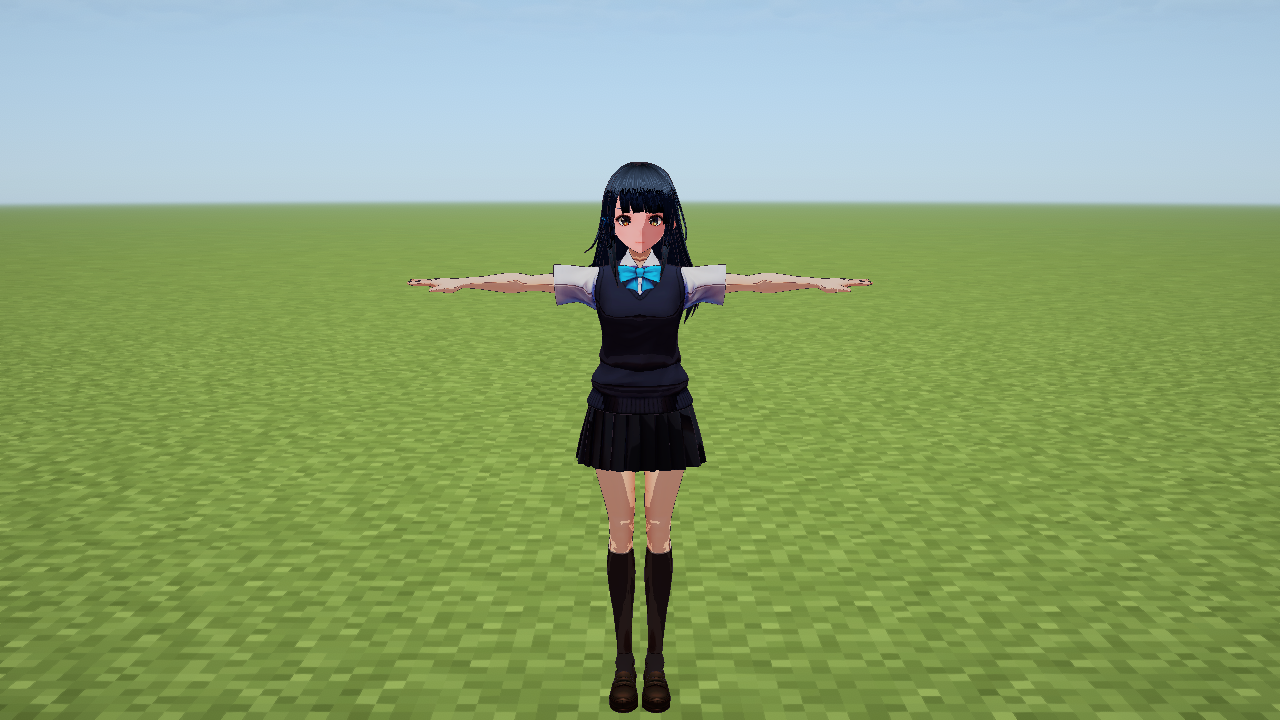
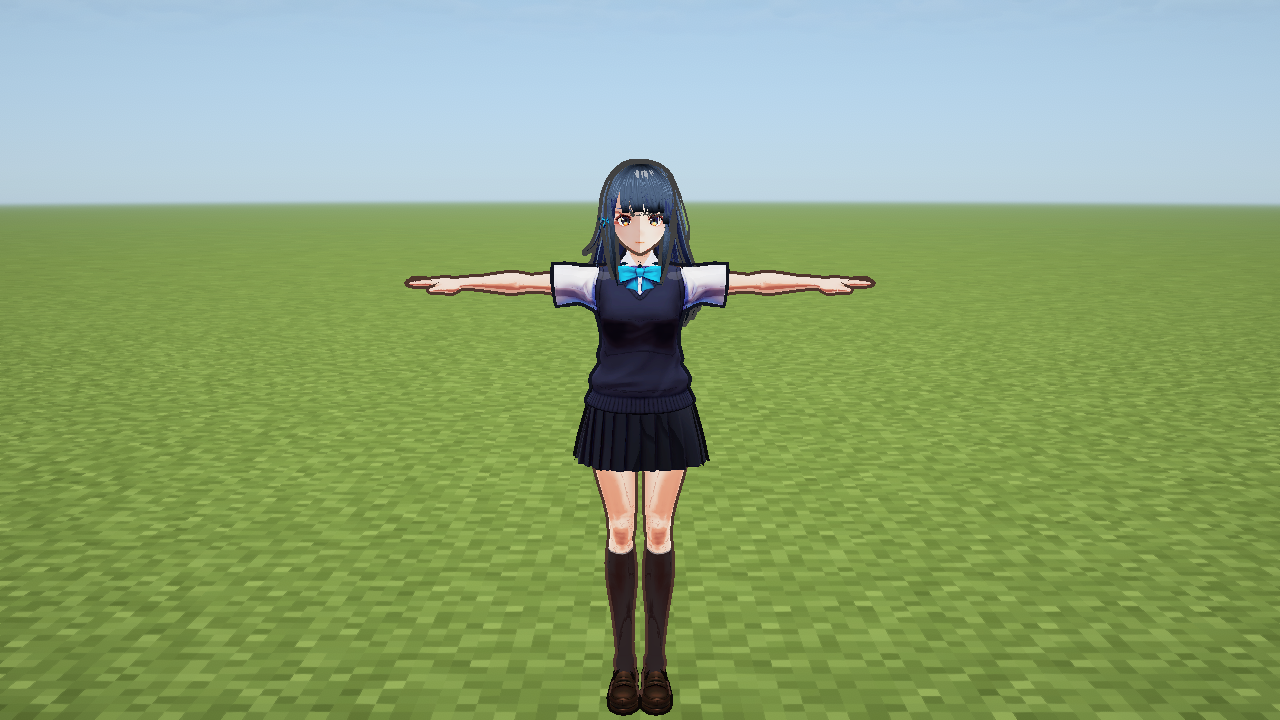
docs: refresh CC0 example still and pin MCglTF 2.3.2.8 for CI
JitPack's 2.3.2.7 tag predates ToonAssetGenerator, so CI could not compile
Generate Toon assets. Point at the new release and ship the Unbound Sendagaya
screenshot plus README/CHANGELOG notes for the in-mod derivation path.

Changed region(s): [[0.3125, 0.2139, 0.6875, 1.0]]

diff --git a/README.md b/README.md
@@ -4,13 +4,13 @@ Load local VRM 0.x/1.0 models in Minecraft 26.2 Fabric with MCglTF, and optional
 
 ![Celerant ToonShader example with Sendagaya Shino](docs/images/example-sendagaya-shino.png)
 
-The example model is VRoid Project **Sendagaya Shino** ([CC0 1.0](https://creativecommons.org/publicdomain/zero/1.0/), [terms of use](https://vroid.pixiv.help/hc/en-us/articles/4402614652569-Do-VRoid-Studio-s-sample-models-come-with-conditions-of-use) / [OpenGameArt mirror](https://opengameart.org/content/vroid-studio-cc0-models)). The still above was captured with Celerant + MCglTF ToonShader under an active Complementary Unbound Iris ShaderPack, using the generated LightMap / face-SDF / ramp sidecar in [`docs/examples/sendagaya-shino/`](docs/examples/sendagaya-shino/). The `.vrm` itself is not vendored; regenerate maps with `generate_toon_assets.py` after download, which is a thin wrapper over [`scripts/vrm_toon_assets.py`](scripts/vrm_toon_assets.py) and derives the same data for any VRM. Visual target: official [`UnityGenshinToonShader`](https://github.com/kaze-mio/UnityGenshinToonShader) `Images/image_0.png` (soft cheek SDF, warm lit albedo, thin outlines, bounded rim).
+The example model is VRoid Project **Sendagaya Shino** ([CC0 1.0](https://creativecommons.org/publicdomain/zero/1.0/), [terms of use](https://vroid.pixiv.help/hc/en-us/articles/4402614652569-Do-VRoid-Studio-s-sample-models-come-with-conditions-of-use) / [OpenGameArt mirror](https://opengameart.org/content/vroid-studio-cc0-models)). The still above was captured 2026-08-25 with Celerant + MCglTF ToonShader 2.3.2.8 under an active Complementary Unbound Iris ShaderPack, using the generated LightMap / face-SDF / ramp sidecar in [`docs/examples/sendagaya-shino/`](docs/examples/sendagaya-shino/). Only CC0 models appear in committed README images; the `.vrm` itself is not vendored. Regenerate maps with `generate_toon_assets.py` after download, which is a thin wrapper over [`scripts/vrm_toon_assets.py`](scripts/vrm_toon_assets.py) and derives the same data for any VRM. Visual target: official [`UnityGenshinToonShader`](https://github.com/kaze-mio/UnityGenshinToonShader) `Images/image_0.png` (soft cheek SDF, warm lit albedo, thin outlines, bounded rim).
 
 ## Required mods
 
 - Fabric Loader 0.19.3+
 - Fabric API 0.156.0+26.2
-- [MCglTF 26.2-Fabric-2.3.2.7](https://github.com/westernbear/MCglTF-1.20.4/releases/tag/v26.2-Fabric-2.3.2.7)
+- [MCglTF 26.2-Fabric-2.3.2.8](https://github.com/westernbear/MCglTF-1.20.4/releases/tag/v26.2-Fabric-2.3.2.8)
 - Iris 1.11.2+ and the Sodium 0.9.x build Iris requires
 - [OneConfig 1.1.6 for Fabric 26.2](https://modrinth.com/mod/oneconfig/version/UCFu181L) plus the Compose Multiplatform and Fabric Language Kotlin builds OneConfig requires
 
@@ -94,7 +94,13 @@ CELERANT_VISUAL_VRM=/absolute/path/model.vrm \
 xvfb-run -a -s "-screen 0 1280x720x24" ./gradlew runClientGameTest --offline
 ```
 
-As of 2026-08-13 on Iris 1.11.2 / MCglTF 2.3.2.6, the current Modrinth 26.2-compatible BSL R10.1.3, Complementary Reimagined r5.8.1, and Complementary Unbound r5.8.1 packs were inspected directly with the Jingburger VRM and each pack active. Height-matched comparisons against the official `UnityGenshinToonShader` images, ON/OFF/restored frames, opposed face lighting, and native plus 4× nearest-neighbour crops all passed the face SDF, material ramp, smooth normal, outline, rim/specular, and compositing gates. All three packs kept source SHA-256 intact, `patched_entity_programs=0/9`, and restored pixel stability `1.000`. llvmpipe 1280×720 ON/OFF median frame times were BSL 902/751 ms, Reimagined 756/633 ms, and Unbound 807/670 ms. Those are software-renderer numbers, not real-GPU performance.
+As of 2026-08-25 on Iris 1.11.2 / MCglTF 2.3.2.8, the current Modrinth 26.2-compatible BSL R10.1.3, Complementary Reimagined r5.8.1, and Complementary Unbound r5.8.1 packs were inspected directly with a local validation VRM and each pack active. Height-matched comparisons against the official `UnityGenshinToonShader` images, ON/OFF/restored frames, opposed face lighting, and native plus 4× nearest-neighbour crops all passed the face SDF, material ramp, smooth normal, outline, rim/specular, and compositing gates after the Unity-aligned outline path and geometry-based blush/eye placement landed. All three packs kept source SHA-256 intact, `patched_entity_programs=0/9`, and restored pixel stability `1.000`. llvmpipe 1280×720 ON/OFF median frame times were BSL 753/785 ms, Reimagined 624/580 ms, and Unbound 716/630 ms. Those are software-renderer numbers, not real-GPU performance. Shipped README and example images use only the CC0 Sendagaya Shino sample under [`docs/examples/sendagaya-shino/`](docs/examples/sendagaya-shino/); copyrighted models stay in local-only validation runs.
+
+Local MCglTF builds override JitPack during capture and GameTest:
+
+```bash
+LOCAL_MCGLTF=/absolute/path/MCglTF-26.2-Fabric-2.3.2.8.jar ./gradlew runClientGameTest --offline
+```
 
 ## CI and releases
 

diff --git a/CHANGELOG.md b/CHANGELOG.md
@@ -2,10 +2,17 @@
 
 ## Unreleased
 
+- MCglTF 26.2-Fabric-2.3.2.8로 올리고, **Generate Toon assets**를 MCglTF `ToonAssetGenerator`에 연결해 Python 도구와 동일한 sidecar/시트를 게임 안에서 생성합니다.
+- Python `vrm_toon_assets.py`와 Java 생성기 모두 얼굴 albedo·기하에서 blush/eye 중심을 추정하도록 바꿨고, Sendagaya CC0 예시 sidecar를 재생성했습니다.
+- Unity 스타일 outline view-space expansion, outline-pass depth bias, outline-pass scene-depth/alpha skip으로 끊긴 outline과 alpha speckle을 고쳤습니다.
+- 2026-08-25 cross-pack 검증(BSL, Complementary Reimagined, Complementary Unbound)에서 face SDF, material ramp, smooth normal, outline, rim/specular, compositing 게이트를 모두 PASS했습니다.
+- README/예시 이미지는 CC0 Sendagaya Shino만 사용하고, 저작권 있는 로컬 검증 VRM은 저장소에 포함하지 않습니다.
+- `-PlocalMcgltf=...`와 `scripts/toon-run-pack.sh`의 `LOCAL_MCGLTF`로 로컬 MCglTF JAR을 쓰는 절차를 문서화했습니다.
+
 ## 1.2.1
 
 - MCglTF 26.2-Fabric-2.3.2.6의 분리된 Genshin-style ToonShader 경로를 사용해 공식 face SDF·LightMap·ramp, smooth normal, 재질별 outline, rim/specular와 HDR 합성을 지원합니다.
-- BSL R10.1.3, Complementary Reimagined r5.8.1, Complementary Unbound r5.8.1에서 Jingburger ON/OFF/restored·반대 방향 얼굴광·원본/4× 크롭을 수집하고 공식 레퍼런스 대비 모든 시각·기술 게이트를 검증합니다.
+- BSL R10.1.3, Complementary Reimagined r5.8.1, Complementary Unbound r5.8.1에서 로컬 검증 VRM으로 ON/OFF/restored·반대 방향 얼굴광·원본/4× 크롭을 수집하고 공식 레퍼런스 대비 모든 시각·기술 게이트를 검증합니다.
 - 대표 ShaderPack을 각각 새 Minecraft JVM과 제한된 memory scope에서 실행하도록 OOM 방지 절차를 문서화합니다.
 
 ## 1.2.0
@@ -20,4 +27,4 @@
 - 환경변수로 지정한 로컬 VRM에도 같은 GPU 대조 검증을 적용하고, 점프 상승과 하강 포즈를 명확히 구분합니다.
 - three-vrm의 normalized humanoid 수식을 기준으로 bone roll과 부모 회전/스케일을 보존하고, matrix 기반 humanoid node와 VRM0 first-person Z축을 처리합니다.
 - 흰 재질 highlight clipping과 양면 hair-card의 texture-edge 파편을 줄이도록 toon ramp/rim/edge를 조정합니다.
-- 교정: 1.1.0의 스크린샷은 ShaderPack 로드와 합성 GLSL 변환만 확인했으며, Jingburger 픽셀에 런타임 toon 패치가 적용됐다는 자동 증거는 아니었습니다.
+- 교정: 1.1.0의 스크린샷은 ShaderPack 로드와 합성 GLSL 변환만 확인했으며, 로컬 검증 VRM 픽셀에 런타임 toon 패치가 적용됐다는 자동 증거는 아니었습니다.

diff --git a/docs/images/README.md b/docs/images/README.md
@@ -1,5 +1,8 @@
 # Example images
 
+Committed README images use only **CC0** VRM models. The repository does not
+ship copyrighted character assets in `docs/images/`.
+
 `example-sendagaya-shino.png` shows the VRoid Project **Sendagaya Shino** sample
 VRM in Minecraft with Celerant + MCglTF ToonShader and Complementary Unbound
 (Iris) active, using the generated sidecar under
@@ -11,6 +14,7 @@ VRM in Minecraft with Celerant + MCglTF ToonShader and Complementary Unbound
   / [OpenGameArt mirror](https://opengameart.org/content/vroid-studio-cc0-models)
 - ShaderPack: Complementary Unbound (Modrinth, Iris)
 - Toon data: procedural LightMaps / face SDF / ramps via `generate_toon_assets.py`
+- Capture: MCglTF 2.3.2.8, Complementary Unbound r5.8.1, Toon ON with Iris active
 - Visual baseline: [UnityGenshinToonShader](https://github.com/kaze-mio/UnityGenshinToonShader) `Images/image_0.png`
 
 The `.vrm` itself is not vendored; download and regenerate maps as described in

diff --git a/docs/examples/sendagaya-shino/README.md b/docs/examples/sendagaya-shino/README.md
@@ -1,8 +1,7 @@
 # Sendagaya Shino ToonShader example assets
 
-CC0 VRoid sample **Sendagaya Shino**, prepared like the Jingburger matrix
-fixtures: procedural LightMaps, face SDF, body/hair ramps, and a v2
-`.toon.json` sidecar.
+CC0 VRoid sample **Sendagaya Shino**, prepared with procedural LightMaps, face
+SDF, body/hair ramps, and a v2 `.toon.json` sidecar.
 
 ## Download the VRM
 
@@ -72,6 +71,6 @@ export CELERANT_VISUAL_VRM=$PWD/Sendagaya_Shino.vrm
 ```
 
 Use a Toon ON frame with the ShaderPack active as
-`docs/images/example-sendagaya-shino.png`. Compare against
-`kaze-mio/UnityGenshinToonShader` `Images/image_0.png` for soft cheek shadow,
-warm lit albedo, thin outlines, and bounded rim.
+`docs/images/example-sendagaya-shino.png`. Only CC0 models belong in committed
+README images; compare against `kaze-mio/UnityGenshinToonShader` `Images/image_0.png`
+for soft cheek shadow, warm lit albedo, thin outlines, and bounded rim.
